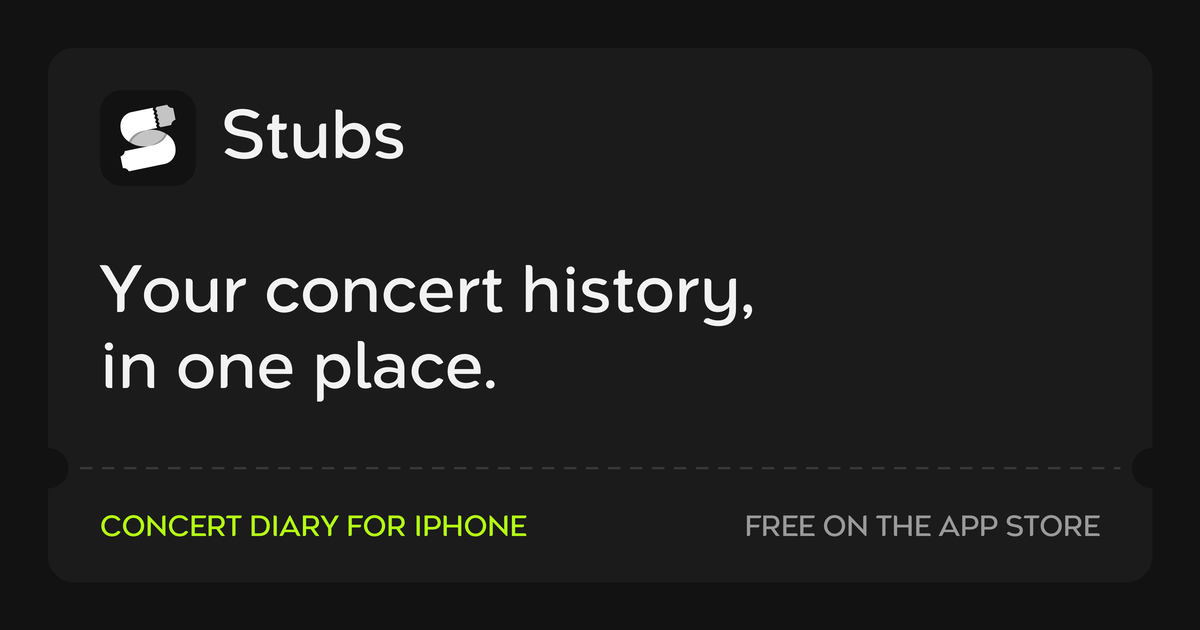
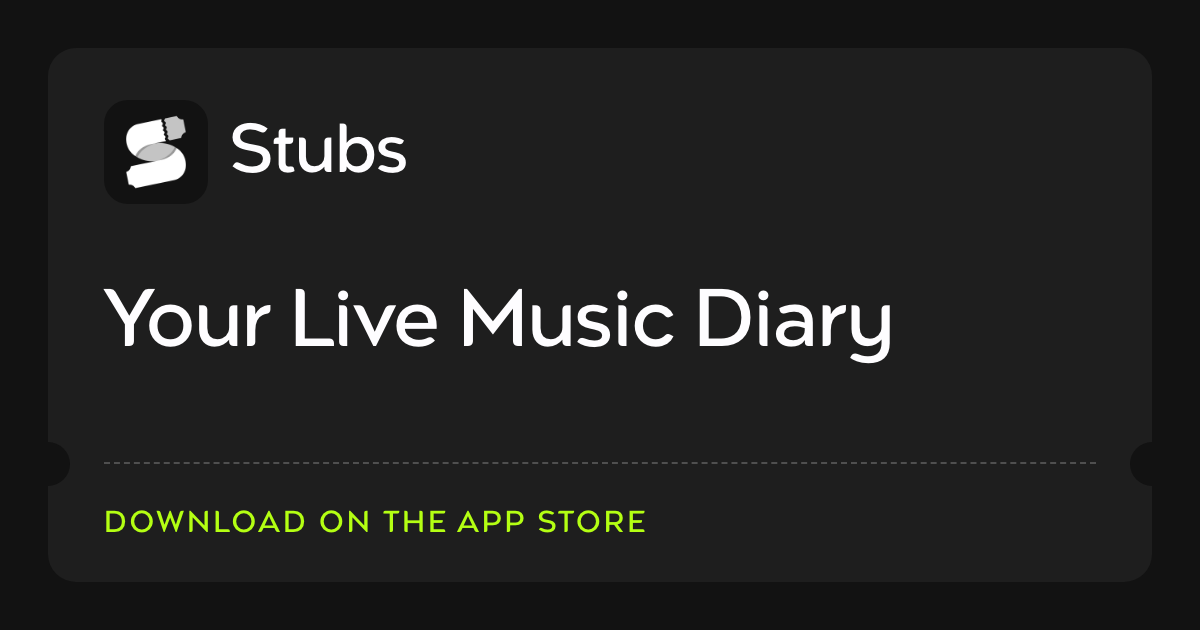
Rebuild OG preview image with updated copy
The link preview is a flat PNG, so site copy edits never reached it.
Regenerated with the new headline and CTA, and added the HTML source
so it can be re-rendered next time.

diff --git a/assets/og-image.source.html b/assets/og-image.source.html
@@ -1,0 +1,123 @@
+<!DOCTYPE html>
+<html lang="en">
+<head>
+<meta charset="utf-8">
+<title>og-image source</title>
+<!--
+  SOURCE FOR assets/og-image.png (1200x630 link preview card).
+
+  The PNG is what iMessage, Slack, Twitter etc. actually show. It is a flat
+  image, so editing the site copy does NOT change it. Edit this file, then
+  re-render from the repo root:
+
+  "/Applications/Google Chrome.app/Contents/MacOS/Google Chrome" \
+    --headless --disable-gpu --hide-scrollbars --force-device-scale-factor=1 \
+    --window-size=1200,630 --screenshot=assets/og-image.png \
+    assets/og-image.source.html
+
+  Then update og:image:alt in index.html to match the new wording.
+  Colours and type below are the tokens from style.css :root.
+-->
+<style>
+@font-face {
+  font-family: "Agenor Neue";
+  src: url(AgenorNeue-Regular.woff2) format("woff2");
+  font-weight: 400;
+  font-style: normal;
+}
+
+* { margin: 0; padding: 0; box-sizing: border-box; }
+
+html, body { width: 1200px; height: 630px; }
+
+body {
+  background: #121212;                /* --bg */
+  display: flex;
+  align-items: center;
+  justify-content: center;
+  -webkit-font-smoothing: antialiased;
+}
+
+.card {
+  width: 1104px;
+  height: 534px;
+  background: #1e1e1e;                /* --surface */
+  border-radius: 28px;
+  display: flex;
+  flex-direction: column;
+}
+
+.top { flex: 1; padding: 52px 56px 0; }
+
+.brand { display: flex; align-items: center; gap: 22px; }
+.brand img { width: 104px; height: 104px; border-radius: 24px; display: block; }
+.brand span {
+  font-family: "Agenor Neue";
+  font-size: 66px;
+  line-height: 1;
+  letter-spacing: -0.02em;            /* --tracking-tight */
+  color: #fefdff;                     /* --text */
+}
+
+.headline {
+  margin-top: 74px;
+  font-family: "Agenor Neue";
+  font-size: 78px;
+  line-height: 1.14;
+  letter-spacing: -0.02em;
+  color: #fefdff;
+}
+
+/* The tear line, with a notch punched out of each edge of the card. */
+.perf {
+  position: relative;
+  height: 0;
+  margin: 0 56px;
+  border-top: 2px dashed rgba(254, 253, 255, 0.22);   /* --line-strong */
+}
+.perf::before,
+.perf::after {
+  content: "";
+  position: absolute;
+  top: -22px;
+  width: 22px;
+  height: 44px;
+  background: #121212;
+}
+.perf::before { left: -56px;  border-radius: 0 22px 22px 0; }
+.perf::after  { right: -56px; border-radius: 22px 0 0 22px; }
+
+.stub {
+  height: 118px;
+  padding: 0 56px;
+  display: flex;
+  align-items: center;
+}
+.stub p {
+  font-family: "Agenor Neue";
+  font-size: 29px;
+  letter-spacing: 0.10em;
+  text-transform: uppercase;
+  color: #b4ff13;                     /* --accent, CTA only */
+}
+</style>
+</head>
+
+<body>
+  <div class="card">
+    <div class="top">
+      <div class="brand">
+        <img src="icon-512.png" alt="">
+        <span>Stubs</span>
+      </div>
+      <p class="headline">Your Live Music Diary</p>
+    </div>
+
+    <div class="perf"></div>
+
+    <div class="stub">
+      <p>Download on the App Store</p>
+    </div>
+  </div>
+</body>
+</html>

diff --git a/index.html b/index.html
@@ -23,7 +23,7 @@
 <meta property="og:image" content="https://stubs.live/assets/og-image.png">
 <meta property="og:image:width" content="1200">
 <meta property="og:image:height" content="630">
-<meta property="og:image:alt" content="A ticket stub reading “Stubs, your concert history in one place.”">
+<meta property="og:image:alt" content="A ticket stub reading “Stubs, your live music diary.”">
 
 <!-- Twitter -->
 <meta name="twitter:card" content="summary_large_image">
